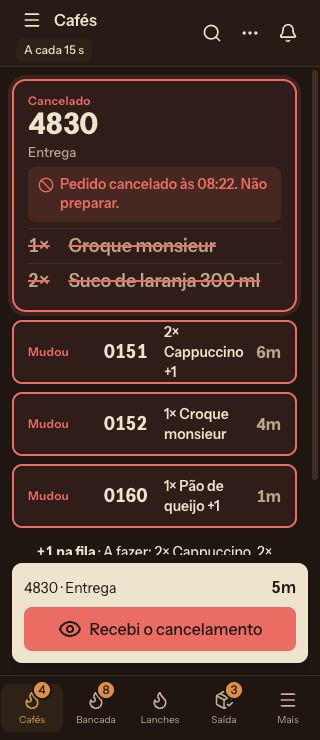
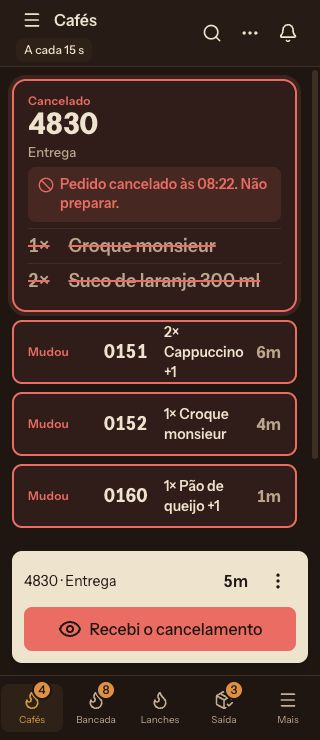
docs: position KDS dismiss and move options above primary action

Changed region(s): [[0.0312, 0.7149, 0.9688, 0.8081], [0.9688, 0.6216, 1.0, 0.6527]]

diff --git a/docs/previews/navigation-2026-10-29/kds-native.html b/docs/previews/navigation-2026-10-29/kds-native.html
@@ -1,1 +1,1 @@
-<!doctype html><html lang="pt-BR"><meta charset="utf-8"><meta name="viewport" content="width=device-width,initial-scale=1"><title>Cozinha: comparação pontual</title><style>body{margin:0;background:#201810;color:#eee0cb;font:16px/1.5 system-ui}main{max-width:1050px;padding:20px;margin:auto}h1{font-size:28px;line-height:1.2}a{color:#f2c15f;padding:10px 0;display:inline-block}table{width:100%;border-collapse:collapse;background:#2b2118}th,td{text-align:left;padding:12px;border-bottom:1px solid #63513e}td{white-space:nowrap}th{font-size:15px}.shots{display:grid;grid-template-columns:1fr 1fr;gap:12px}.shots img{display:block;width:100%;height:auto}.shots figure{margin:0}summary{padding:16px 0;cursor:pointer}section{margin:24px 0}li{margin:12px 0}small{color:#cabba5} @media(max-width:480px){main{padding:16px}th,td{padding:10px 6px}}</style><main><h1>Cozinha: o que mudou nesta rodada</h1><p>Conciliação reversa com o KDS Nuxt real. Compare a mesma estação nas duas colunas. As telas abrem limpas.</p><ol><li><strong>Aviso mais compacto:</strong> texto, cor semântica e Visto preservados. Em 390px, o aviso passou de 160px para 108px: o primeiro ticket sobe 52px.</li><li><strong>Menu explícito no mobile:</strong> três pontos verticais, sem borda, ao lado da ação principal. Abre o mesmo menu do toque longo. Em confirmações longas de cancelamento, o gesto principal mantém a largura inteira.</li><li><strong>Histórico a um toque no desktop:</strong> atalho na linha de controles, abrindo o diálogo atual.</li><li><strong>Confirmação inequívoca em 320px:</strong> o botão pode mostrar “Recebi o cancelamento”, com o código do pedido no contexto acima, em vez de ficar só no ícone.</li></ol><div class="shots"><figure><figcaption>Antes: aviso alto</figcaption><a href="kds-native/before-mobile.png" target="_blank"><img src="kds-native/before-mobile.png" alt="KDS atual no mobile"></a></figure><figure><figcaption>Depois: mais fila à vista</figcaption><a href="kds-native/after-mobile.png" target="_blank"><img src="kds-native/after-mobile.png" alt="Proposta KDS no mobile"></a></figure></div><section><table><thead><tr><th>Cenário</th><th>Antes</th><th>Depois</th></tr></thead><tbody><tr><th>Bancada: fila, notas e alergia</th><td><a target="_blank" href="https://traffic-creativity-getting-parcel.trycloudflare.com/bancada">Atual ↗</a></td><td><a target="_blank" href="https://laughing-resorts-bool-prospects.trycloudflare.com/bancada">Proposta ↗</a></td></tr><tr><th>Cafés: mudanças e cancelamento</th><td><a target="_blank" href="https://traffic-creativity-getting-parcel.trycloudflare.com/cafes">Atual ↗</a></td><td><a target="_blank" href="https://laughing-resorts-bool-prospects.trycloudflare.com/cafes">Proposta ↗</a></td></tr><tr><th>Encomendas: separação e volumes</th><td><a target="_blank" href="https://traffic-creativity-getting-parcel.trycloudflare.com/encomendas">Atual ↗</a></td><td><a target="_blank" href="https://laughing-resorts-bool-prospects.trycloudflare.com/encomendas">Proposta ↗</a></td></tr><tr><th>Lanches: estação vazia</th><td><a target="_blank" href="https://traffic-creativity-getting-parcel.trycloudflare.com/lanches">Atual ↗</a></td><td><a target="_blank" href="https://laughing-resorts-bool-prospects.trycloudflare.com/lanches">Proposta ↗</a></td></tr><tr><th>Escolher estação</th><td><a target="_blank" href="https://traffic-creativity-getting-parcel.trycloudflare.com/">Atual ↗</a></td><td><a target="_blank" href="https://laughing-resorts-bool-prospects.trycloudflare.com/">Proposta ↗</a></td></tr><tr><th>Painel de retirada (TV, preservado)</th><td><a target="_blank" href="https://traffic-creativity-getting-parcel.trycloudflare.com/pickup">Atual ↗</a></td><td><a target="_blank" href="https://laughing-resorts-bool-prospects.trycloudflare.com/pickup">Proposta ↗</a></td></tr></tbody></table></section><section><h2>Como experimentar</h2><p>Na Bancada, abra os três pontos da base, veja o pedido ou o histórico. Toque em Pronto e depois em Desfazer dentro do prazo original. Toque em uma linha da fila para mudar o foco. Em Cafés, dê ciência de um cancelamento e confira que as outras mudanças continuam destacadas.</p><p><a href="https://laughing-resorts-bool-prospects.trycloudflare.com/simulator.html" target="_blank">Restaurar quadros ou programar uma falha ↗</a></p><p>Os dois lados compartilham os dados fictícios. Para comparar estados iguais, restaure e atualize as duas telas. O bloqueio de som depende do navegador; não é uma mudança visual da proposta.</p></section><details><summary>Comparar capturas do desktop</summary><div class="shots"><figure><figcaption>Atual</figcaption><img src="kds-native/before-desktop.png" alt="Desktop atual"></figure><figure><figcaption>Proposta</figcaption><img src="kds-native/after-desktop.png" alt="Desktop proposto"></figure></div></details><section><h2>Preservação e limites</h2><p>Nove componentes, incluindo cards, fila mobile, histórico, detalhe, menu e Ajustes, conferidos como idênticos à fonte. Ordem da fila, notas, alergias, alarmes por mudança, toque longo, deslizar, início, Pronto, Desfazer e reabertura usam os fluxos atuais.</p><p>O painel de retirada permanece uma tela pública de TV. Central, Saída no Gestor, autenticação real, SSE, push, som em segundo plano e tela cheia ainda precisam de validação nas integrações apropriadas. O simulador não comprova regras reais do Core.</p><p>O rótulo longo da fila ainda ocupa muita altura em 320px. Ficou registrado para avaliação específica, sem redesenhar o card nesta rodada.</p><small>Fonte fixada: e0c22ba1f. Prévia temporária, sem mudanças no produto, merge ou deploy. Nove cenários de contrato do simulador passaram.</small></section></main></html>
+<!doctype html><html lang="pt-BR"><meta charset="utf-8"><meta name="viewport" content="width=device-width,initial-scale=1"><title>Cozinha: comparação pontual</title><style>body{margin:0;background:#201810;color:#eee0cb;font:16px/1.5 system-ui}main{max-width:1050px;padding:20px;margin:auto}h1{font-size:28px;line-height:1.2}a{color:#f2c15f;padding:10px 0;display:inline-block}table{width:100%;border-collapse:collapse;background:#2b2118}th,td{text-align:left;padding:12px;border-bottom:1px solid #63513e}td{white-space:nowrap}th{font-size:15px}.shots{display:grid;grid-template-columns:1fr 1fr;gap:12px}.shots img{display:block;width:100%;height:auto}.shots figure{margin:0}summary{padding:16px 0;cursor:pointer}section{margin:24px 0}li{margin:12px 0}small{color:#cabba5} @media(max-width:480px){main{padding:16px}th,td{padding:10px 6px}}</style><main><h1>Cozinha: o que mudou nesta rodada</h1><p>Conciliação reversa com o KDS Nuxt real. Compare a mesma estação nas duas colunas. As telas abrem limpas.</p><ol><li><strong>Dismiss no canto superior direito:</strong> o restante do alerta volta à composição original, com descrição e Visto abaixo. Em 390px, retirar a linha extra do dismiss reduz o alerta de 160px para 118px.</li><li><strong>Três pontos na linha de contexto:</strong> na extremidade direita, acima do Pronto, sem borda. Abre o mesmo menu do toque longo. Pronto e Desfazer ficam com toda a largura, também nas confirmações de cancelamento.</li></ol><p>O atalho Histórico no desktop e a frase legível de confirmação em 320px permanecem da rodada anterior.</p><div class="shots"><figure><figcaption>Antes: aviso alto</figcaption><a href="kds-native/before-mobile.png" target="_blank"><img src="kds-native/before-mobile.png" alt="KDS atual no mobile"></a></figure><figure><figcaption>Depois: dismiss no canto e menu no contexto</figcaption><a href="kds-native/after-mobile.png" target="_blank"><img src="kds-native/after-mobile.png" alt="Proposta KDS no mobile"></a></figure></div><section><table><thead><tr><th>Cenário</th><th>Antes</th><th>Depois</th></tr></thead><tbody><tr><th>Bancada: fila, notas e alergia</th><td><a target="_blank" href="https://traffic-creativity-getting-parcel.trycloudflare.com/bancada">Atual ↗</a></td><td><a target="_blank" href="https://headset-guam-hardly-trailers.trycloudflare.com/bancada">Proposta ↗</a></td></tr><tr><th>Cafés: mudanças e cancelamento</th><td><a target="_blank" href="https://traffic-creativity-getting-parcel.trycloudflare.com/cafes">Atual ↗</a></td><td><a target="_blank" href="https://headset-guam-hardly-trailers.trycloudflare.com/cafes">Proposta ↗</a></td></tr><tr><th>Encomendas: separação e volumes</th><td><a target="_blank" href="https://traffic-creativity-getting-parcel.trycloudflare.com/encomendas">Atual ↗</a></td><td><a target="_blank" href="https://headset-guam-hardly-trailers.trycloudflare.com/encomendas">Proposta ↗</a></td></tr><tr><th>Lanches: estação vazia</th><td><a target="_blank" href="https://traffic-creativity-getting-parcel.trycloudflare.com/lanches">Atual ↗</a></td><td><a target="_blank" href="https://headset-guam-hardly-trailers.trycloudflare.com/lanches">Proposta ↗</a></td></tr><tr><th>Escolher estação</th><td><a target="_blank" href="https://traffic-creativity-getting-parcel.trycloudflare.com/">Atual ↗</a></td><td><a target="_blank" href="https://headset-guam-hardly-trailers.trycloudflare.com/">Proposta ↗</a></td></tr><tr><th>Painel de retirada (TV, preservado)</th><td><a target="_blank" href="https://traffic-creativity-getting-parcel.trycloudflare.com/pickup">Atual ↗</a></td><td><a target="_blank" href="https://headset-guam-hardly-trailers.trycloudflare.com/pickup">Proposta ↗</a></td></tr></tbody></table></section><section><h2>Como experimentar</h2><p>Na Bancada, abra os três pontos na extremidade direita do contexto, acima do Pronto, veja o pedido ou o histórico. Toque em Pronto e depois em Desfazer dentro do prazo original. Toque em uma linha da fila para mudar o foco. Em Cafés, dê ciência de um cancelamento e confira que as outras mudanças continuam destacadas.</p><p><a href="https://headset-guam-hardly-trailers.trycloudflare.com/simulator.html" target="_blank">Restaurar quadros ou programar uma falha ↗</a></p><p>Os dois lados compartilham os dados fictícios. Para comparar estados iguais, restaure e atualize as duas telas. O bloqueio de som depende do navegador; não é uma mudança visual da proposta.</p></section><details><summary>Comparar capturas do desktop</summary><div class="shots"><figure><figcaption>Atual</figcaption><img src="kds-native/before-desktop.png" alt="Desktop atual"></figure><figure><figcaption>Proposta</figcaption><img src="kds-native/after-desktop.png" alt="Desktop proposto"></figure></div></details><section><h2>Preservação e limites</h2><p>Nove componentes, incluindo cards, fila mobile, histórico, detalhe, menu e Ajustes, conferidos como idênticos à fonte. Ordem da fila, notas, alergias, alarmes por mudança, toque longo, deslizar, início, Pronto, Desfazer e reabertura usam os fluxos atuais.</p><p>O painel de retirada permanece uma tela pública de TV. Central, Saída no Gestor, autenticação real, SSE, push, som em segundo plano e tela cheia ainda precisam de validação nas integrações apropriadas. O simulador não comprova regras reais do Core.</p><p>O rótulo longo da fila ainda ocupa muita altura em 320px. Ficou registrado para avaliação específica, sem redesenhar o card nesta rodada.</p><small>Fonte fixada: e0c22ba1f. Prévia temporária, sem mudanças no produto, merge ou deploy. Nove cenários de contrato do simulador passaram.</small></section></main></html>

diff --git a/docs/previews/navigation-2026-10-29/kds-native/composition.css b/docs/previews/navigation-2026-10-29/kds-native/composition.css
@@ -1,27 +1,13 @@
-/* Apenas composição do aviso global. Nenhum seletor dos cards ou da fila. */
-[data-kds-app] [data-page-header-alert] {
-  flex-wrap:nowrap; padding:12px; align-items:start;
-}
-[data-kds-app] [data-page-header-alert] > [data-slot="wrapper"] {
-  display:grid; grid-template-columns:minmax(0,1fr) auto;
-  column-gap:12px; align-items:center;
-}
-[data-kds-app] [data-page-header-alert] [data-slot="title"] { grid-column:1; }
-[data-kds-app] [data-page-header-alert] [data-slot="description"] { grid-column:1; }
-[data-kds-app] [data-page-header-alert] > [data-slot="wrapper"] > [data-slot="actions"] {
-  grid-column:2; grid-row:1 / span 2; margin-top:0;
-  flex-direction:row; flex-basis:auto; align-self:center;
-}
-[data-kds-app] [data-page-header-alert] > [data-slot="actions"] {
+/* Alerta atual: apenas o dismiss ganha o canto superior direito. */
+[data-kds-app] [data-page-header-alert] > [data-slot="actions"]:has(> [data-slot="close"]) {
+  position:absolute; inset-block-start:8px; inset-inline-end:8px;
   flex-basis:auto; flex-direction:row;
 }
-@media(max-width:639px) {
-  [data-kds-app] [data-page-header-alert] { gap:8px; }
-  [data-kds-app] [data-page-header-alert] > [data-slot="wrapper"] { column-gap:8px; }
-  [data-kds-app] [data-page-header-alert] button { min-height:44px; }
-  [data-kds-app] [data-page-header-alert] [data-slot="close"] { min-width:44px; }
-}
+/* Reservar a área do dismiss sem estreitar descrição e botão Visto. */
+[data-kds-app] [data-page-header-alert] [data-slot="title"] { padding-inline-end:32px; }
 
-/* Menu secundário discreto; prioridade e rótulo ficam com o gesto principal. */
-[data-kds-app] [data-operator-action-bar-secondary] { min-width:44px; min-height:44px; box-shadow:none; }
-[data-kds-app] [data-operator-action-bar-action] { min-height:44px; }
+/* Ação principal usa toda a linha. Opções fica na linha de contexto acima. */
+[data-preview-kds-context-bar] [data-operator-action-bar-context] {
+  min-height:36px; align-items:center; padding-inline-end:48px;
+}
+[data-preview-kds-context-bar] [data-operator-action-bar-action] { min-height:44px; }

diff --git a/docs/previews/navigation-2026-10-29/kds-native/README.md b/docs/previews/navigation-2026-10-29/kds-native/README.md
@@ -13,15 +13,20 @@ ordenação, cálculo de foco, gestos ou estados dos composables. O painel públ
 
 Mudanças exclusivas da cópia temporária, aplicadas por `apply-preview.mjs`:
 
-1. CSS do aviso global: composição horizontal, close no canto, texto completo,
-   mesmos tons e callbacks. Sem clamp de texto. Alvos mobile com mínimo de 44px.
-2. Segunda ação do OperatorActionBar: ícone vertical sem borda, nome acessível
-   "Opções do pedido <código>", abrindo o mesmo `onHold` do toque longo.
-3. Ações com rótulo longo conservam a largura inteira. A ciência de cancelamento
-   ganha `shortLabel: action.label`: a frase original, com código no contexto,
-   para não perder o significado em 320px. Não se altera a ação nem sua confirmação.
-4. Atalho Histórico na toolbar desktop. O menu original continua disponível.
-5. Fonte dos cards, cores, badges, itens, notas e observações permanecem as atuais.
+1. Somente o dismiss do aviso global vai para o canto superior direito.
+   Composição, padding, descrição, cores e botão Visto ficam como na fonte.
+   Reserva de espaço no título impede sobreposição com o dismiss.
+2. Botão Nuxt de três pontos verticais, ghost e sem borda, na extremidade direita
+   da linha de contexto do rodapé, acima do Pronto. Abre o mesmo `onHold`.
+   O OperatorActionBar fica sem ação secundária e conserva toda a largura do CTA.
+3. O `shortLabel: action.label` da rodada anterior fica preservado: a frase original
+   de ciência, com código no contexto, permanece legível em 320px.
+4. O atalho Histórico na toolbar desktop permanece da rodada anterior.
+5. Cards, cores, badges, itens, notas e observações permanecem como na fonte.
+
+O menu de contexto tem alvo de 44px. A linha de contexto ganha 12px de altura em
+relação à proposta anterior para acomodá-lo sem sobrepor a ação. A barra inteira,
+incluindo o novo menu, segue a regra de ocultação quando o teclado está aberto.
 
 Não se aplicou ao KDS o card de busca do PDV nem um template genérico de ERP.
 O operador continua com um ticket em foco no mobile; na mesa, filas em ordem de
@@ -57,15 +62,15 @@ Os tempos e códigos dos tickets são exemplos fixos das fixtures originais.
 
 Build Nuxt de A e B concluído. Navegador por túnel, sem Django real:
 
-- 390×844: aviso 160px em A e 108px em B; foco y=295 versus y=243.
+- 390×844: aviso 160px em A e 118px em B; foco y=295 versus y=253.
 - 320×740: Pronto 0131 continua escrito, alvos de 44px, sem overflow horizontal.
-- 320×740, Cafés: "Recebi o cancelamento" legível; código no contexto e na
-  identificação acessível, sem botão secundário tomando sua largura.
+- 320×740, Cafés: "Recebi o cancelamento" legível; código e menu na linha
+  de contexto, sem tomar largura da confirmação.
 - Opções abriu o menu atual e daí o histórico atual.
 - Pronto seguido de Desfazer voltou o ticket ao mesmo lugar na interface.
 - Ciência de cancelamento retirou só o ticket cancelado, mantendo os demais alarmes.
 - Atalho desktop abriu o histórico; Reabrir devolveu 0129 à fila e atualizou contagem.
-- Capturas desktop em 1440×900: aviso mais baixo e mais conteúdo da segunda linha.
+- Capturas desktop em 1440×900: dismiss no canto; alerta com composição original.
 - Viewport temporário restaurado após inspeção.
 
 As capturas são evidência de prévia, não baselines oficiais de CI.
@@ -76,8 +81,17 @@ As capturas são evidência de prévia, não baselines oficiais de CI.
   Não se alterou PhoneQueue para esconder ou abreviar informações do operador.
 - Som bloqueado depende do navegador. Push, SSE real, segundo plano, tela cheia,
   identidade/lock e ligação com Central/Gestor precisam de ensaio apropriado.
-- O novo menu ocupa largura ao lado do CTA normal. A comparação deve decidir se
-  a descoberta compensa esse custo; o toque longo foi preservado.
+- O menu não divide mais a linha do CTA. A linha de contexto fica 12px mais alta
+  que na proposta anterior. O toque longo foi preservado.
 - A avaliação desta rodada não equivale a aprovação global de navegação da suíte.
 
 Sem alterações em Core, kit, backend ou apps de produto. Sem merge ou deploy.
+
+### Revisão de dismiss e contexto
+
+Verificada pelo túnel em 390px, 320px e desktop 1440×900. Em 390px, dismiss a 8px
+do topo e da direita do alerta; CTA e contexto com 342px. Em 320px, Pronto e
+Desfazer mantiveram 272px de largura e a mesma posição. Menu abriu o drawer
+atual, e Desfazer retornou o ticket. Sem overflow horizontal. Capturas atualizadas.
+Build Nuxt concluído em 16,1s. Simulador e os nove componentes preservados não
+foram alterados nesta revisão. Sem implementação no produto ou deploy.

diff --git a/docs/previews/navigation-2026-10-29/README.md b/docs/previews/navigation-2026-10-29/README.md
@@ -558,3 +558,9 @@ limites e evidências em `native/README.md`. Nenhum arquivo do produto foi alter
 Entrada: `kds-native.html`. Comparação explícita antes/depois dos avisos, acesso ao
 menu contextual e histórico, usando o KDS real e nove componentes preservados.
 Evidências, reprodução e limites em `kds-native/README.md`. Apenas prévias.
+
+### KDS: dismiss e menu de contexto
+
+A comparação `kds-native.html` foi atualizada: somente o dismiss vai para o canto
+superior direito do alerta atual; os três pontos passam ao contexto acima do CTA,
+à direita. Pronto/Desfazer conservam a largura inteira. Apenas prévias.
